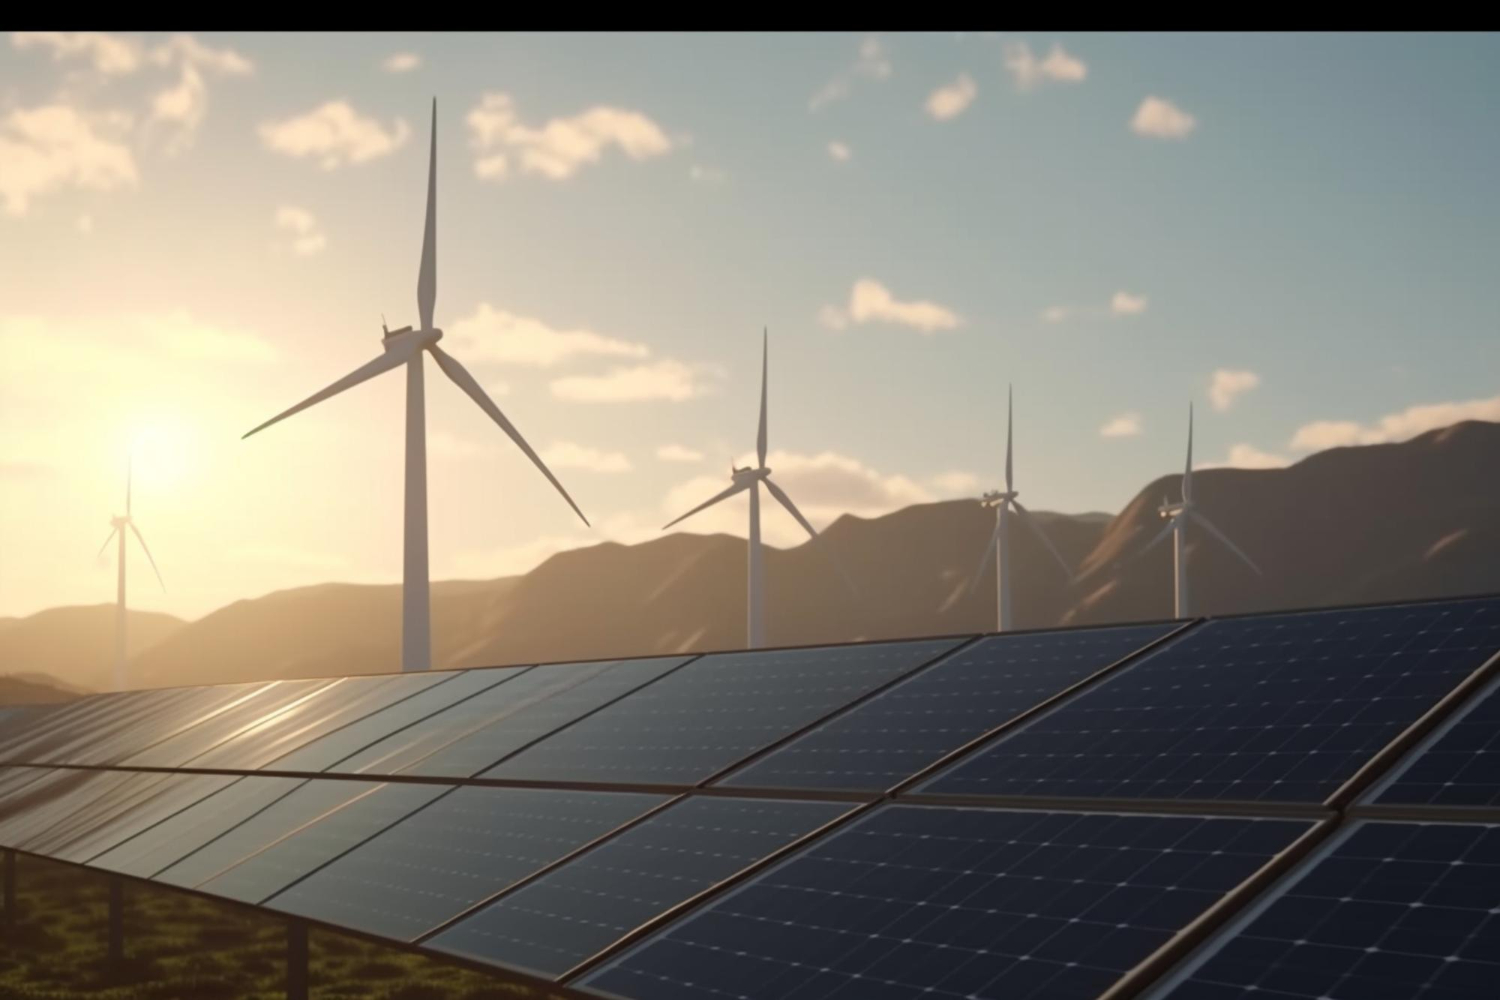
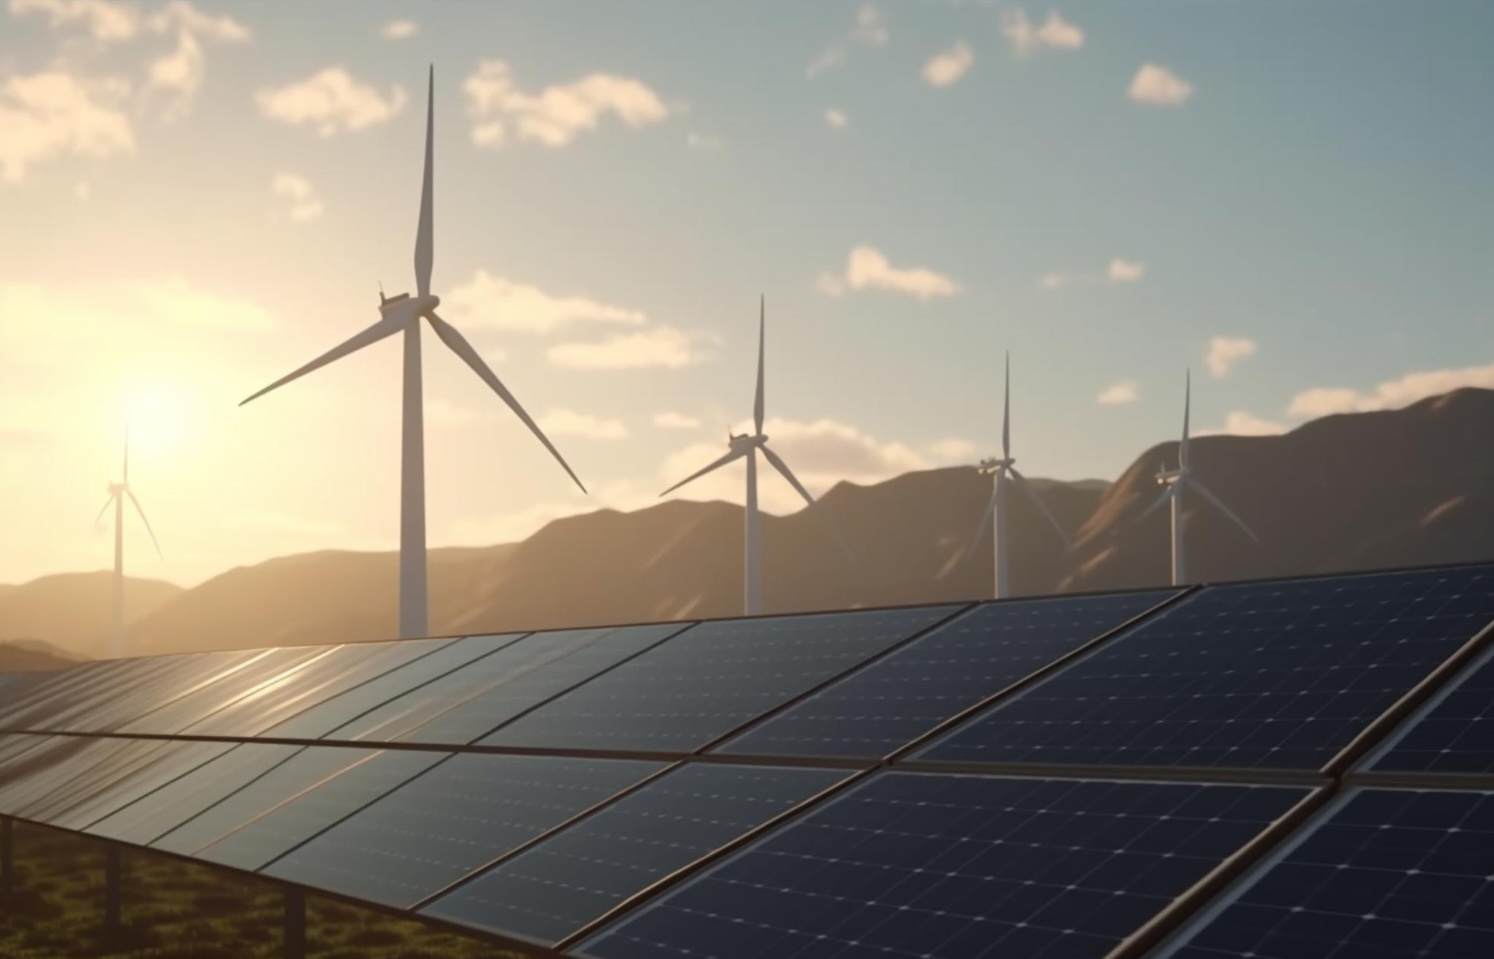
added hero image to leadership page

diff --git a/leadership.html b/leadership.html
@@ -20,8 +20,8 @@
   <body>
     <div id="cur"></div>
     <div id="site-nav"></div>
-    <header class="hero ph">
-      <div class="bg" style="background-position: 55% 50%"></div>
+    <header class="hero ph leadership-hero">
+      <div class="bg" style="background-position: 55% 50%" data-photo="/assets/leadership-hero.jpg"></div>
       <div class="wrap">
         <div class="mono fade">Leadership</div>
         <h1 data-split>Leadership at BSI</h1>

diff --git a/pages.css b/pages.css
@@ -669,3 +669,15 @@
     min-height: 220px;
   }
 }
+
+/* Leadership page only: keep the man in the suit visible on phones/tablets */
+@media (max-width: 991.98px) {
+  .leadership-hero .bg .photo-placeholder {
+    object-position: 28% 50% !important;
+  }
+}
+@media (max-width: 575.98px) {
+  .leadership-hero .bg .photo-placeholder {
+    object-position: 45% 50% !important;
+  }
+}
